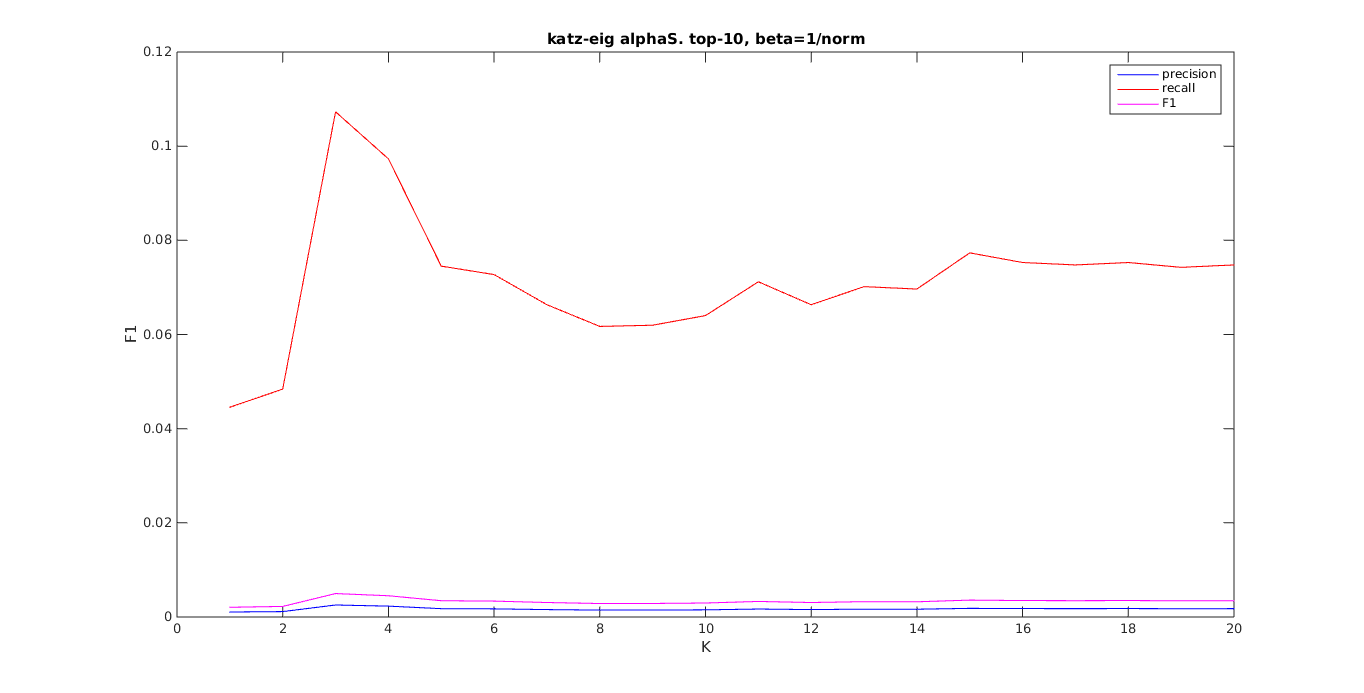
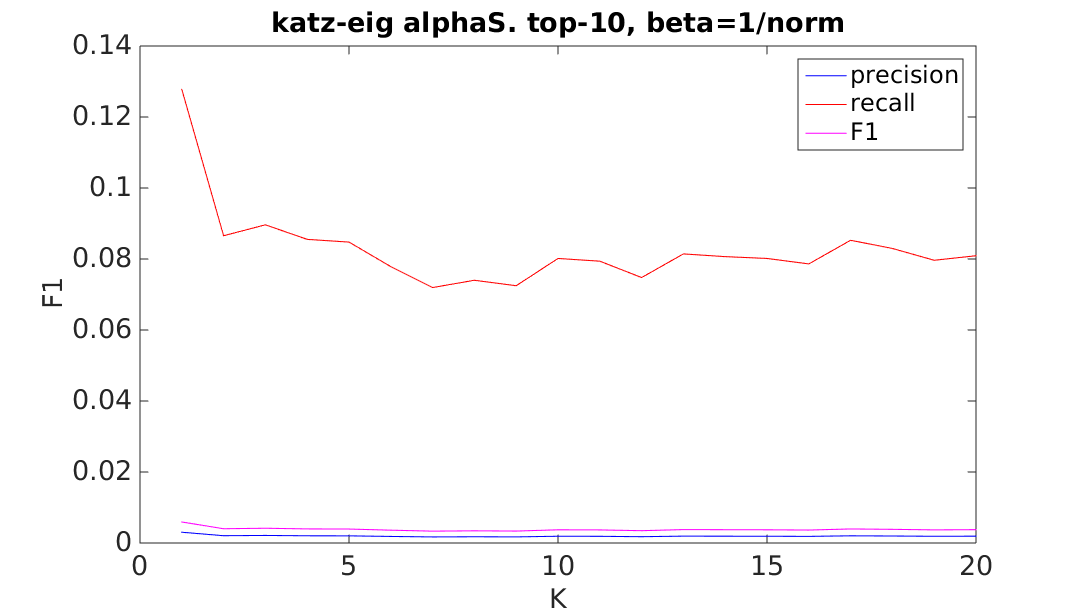
Bigger text katzeig k. Skip eswc2015movies for now.

diff --git a/report/results/parameters/katzeig.tex b/report/results/parameters/katzeig.tex
@@ -123,24 +123,40 @@ The $K$-rank approximation represents different available models for \textit{kat
 \centering
 \begin{minipage}{.5\textwidth}
     \centering
-    \includegraphics[width=\linewidth]{fig/katzeig_k/eswc2015movies_katzeig_K.png}
-    \captionof{figure}{\textit{eswc2015movies} $K_{m} = 5$}
+    \includegraphics[width=\linewidth]{fig/katzeig_k/movielens_katzeig_K.png}
+    \captionof{figure}{\textit{movielens1m} $K_{m} = 31$}
 \end{minipage}%
 \begin{minipage}{.5\textwidth}
     \centering
-    \includegraphics[width=\linewidth]{fig/katzeig_k/movielens_katzeig_K.png}
-    \captionof{figure}{\textit{movielens1m} $K_{m} = 31$}
+    \includegraphics[width=\linewidth]{fig/katzeig_k/romeo_katzeig_K.png}
+    \captionof{figure}{\textit{romeo} $K_{m} = 8$}
 \end{minipage}
 \end{figure}
 
-\begin{figure}[h!]
+\Warning[TODO]{ Plot of \textit{eswc2015movies}? }
+
+%\begin{figure}[h!]
 %\centering
-\begin{minipage}{.5\textwidth}
+%\begin{minipage}{.5\textwidth}
     %\centering
-    \includegraphics[width=\linewidth]{fig/katzeig_k/romeo_katzeig_K.png}
-    \captionof{figure}{\textit{romeo} $K_{m} = 8$}
-\end{minipage}%
-\end{figure}
+    %\includegraphics[width=\linewidth]{fig/katzeig_k/eswc2015movies_katzeig_K.png}
+    %\captionof{figure}{\textit{eswc2015movies} $K_{m} = 5$}
+%\end{minipage}%
+%\begin{minipage}{.5\textwidth}
+    %\centering
+    %\includegraphics[width=\linewidth]{fig/katzeig_k/movielens_katzeig_K.png}
+    %\captionof{figure}{\textit{movielens1m} $K_{m} = 31$}
+%\end{minipage}
+%\end{figure}
+
+%\begin{figure}[h!]
+%%\centering
+%\begin{minipage}{.5\textwidth}
+    %%\centering
+    %\includegraphics[width=\linewidth]{fig/katzeig_k/romeo_katzeig_K.png}
+    %\captionof{figure}{\textit{romeo} $K_{m} = 8$}
+%\end{minipage}%
+%\end{figure}
 
 \FloatBarrier
 
